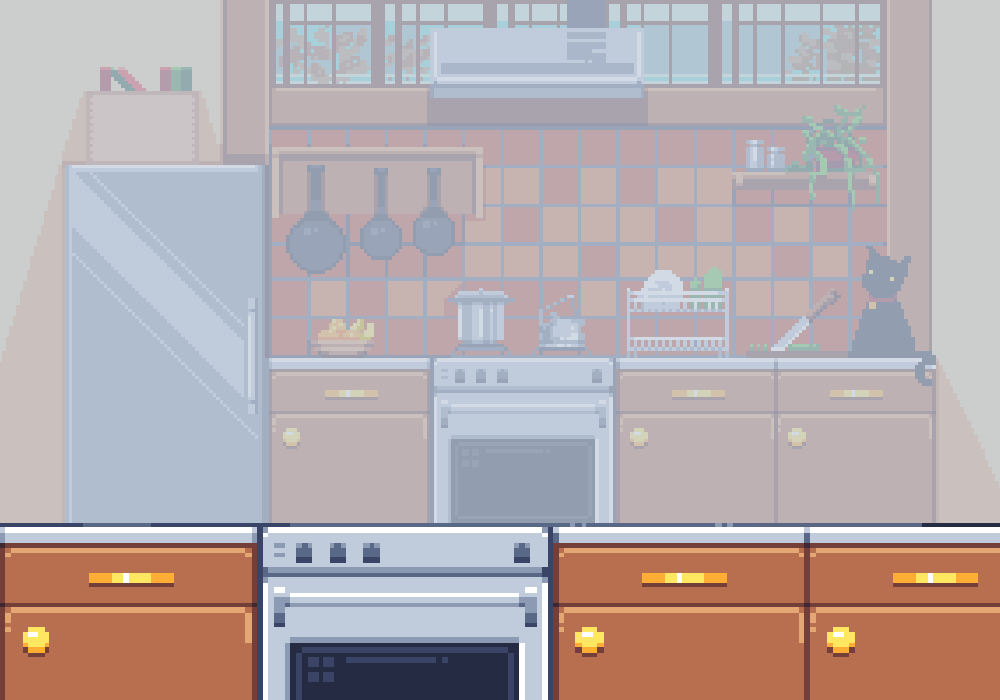
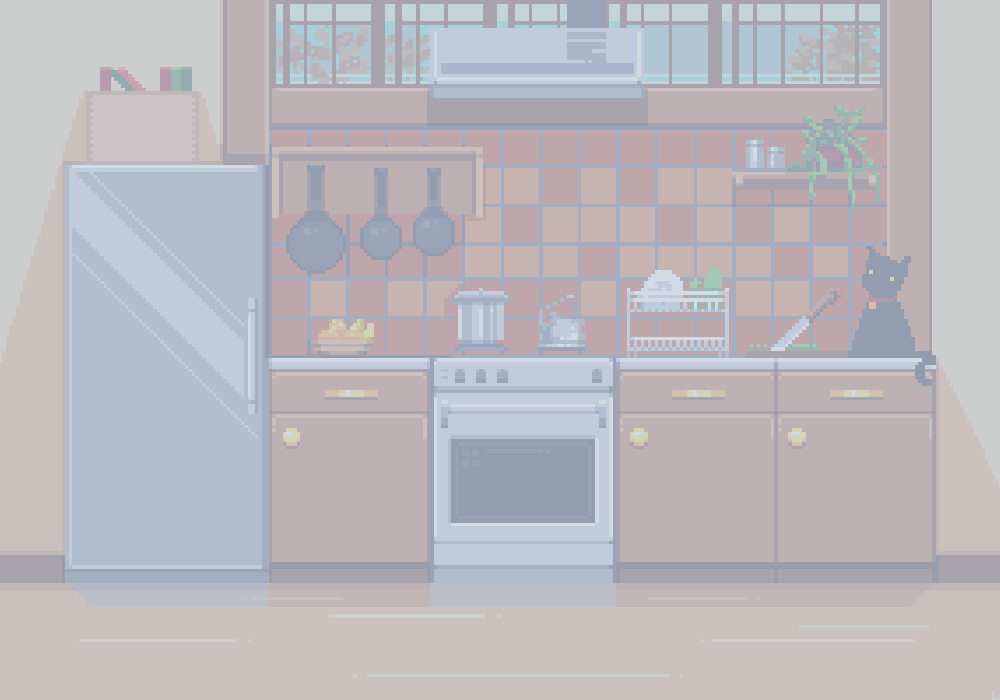
+Land

Changed region(s): [[0.0, 0.75, 1.0, 1.0]]

diff --git a/Land.cpp b/Land.cpp
@@ -1,0 +1,43 @@
+#include "Land.hpp"
+#include "DEFINITIONS.hpp"
+
+namespace Dumpling
+{
+	Land::Land(GameDataRef data) : data_(data)
+	{
+		sf::Sprite sprite(this->data_->assets.GetTexture("Land"));
+		sf::Sprite sprite2(this->data_->assets.GetTexture("Land"));
+
+		sprite.setPosition(0, this->data_->window.getSize().y - sprite.getLocalBounds().height);
+		sprite2.setPosition(sprite.getLocalBounds().width, this->data_->window.getSize().y - sprite2.getLocalBounds().height);
+
+		landSprites_.push_back(sprite);
+		landSprites_.push_back(sprite2);
+	}
+
+	void Land::MoveLand(float dt)
+	{
+		for (unsigned short int i = 0; i < landSprites_.size(); i++)
+		{
+			sf::Vector2f position = landSprites_.at(i).getPosition();
+			float movement = FORK_MOVEMENT_SPEED * dt;
+
+			landSprites_.at(i).move(-movement, 0.0f);
+
+			if (landSprites_.at(i).getPosition().x < 0 - landSprites_.at(i).getLocalBounds().width)
+			{
+				sf::Vector2f position(data_->window.getSize().x, landSprites_.at(i).getPosition().y);
+
+				landSprites_.at(i).setPosition(position);
+			}
+		}
+	}
+
+	void Land::DrawLand()
+	{
+		for (unsigned short int i = 0; i < landSprites_.size(); i++)
+		{
+			this->data_->window.draw(landSprites_.at(i));
+		}
+	}
+}

diff --git a/Land.hpp b/Land.hpp
@@ -1,0 +1,23 @@
+#pragma once
+
+#include <SFML/Graphics.hpp>
+#include "Game.hpp"
+#include <vector>
+
+namespace Dumpling
+{
+	class Land
+	{
+	public:
+		Land(GameDataRef data);
+
+		void MoveLand(float dt);
+		void DrawLand();
+
+	private:
+		GameDataRef data_;
+
+		std::vector<sf::Sprite>landSprites_;
+
+	};
+}

diff --git a/GameState.hpp b/GameState.hpp
@@ -4,6 +4,7 @@
 #include "State.hpp"
 #include "Game.hpp"
 #include "Fork.hpp"
+#include "Land.hpp"
 
 namespace Dumpling
 {
@@ -26,5 +27,8 @@ namespace Dumpling
 		sf::Clock clock_;
 
 		Fork* fork;
+
+		Land* land;
+
 	};
 }
